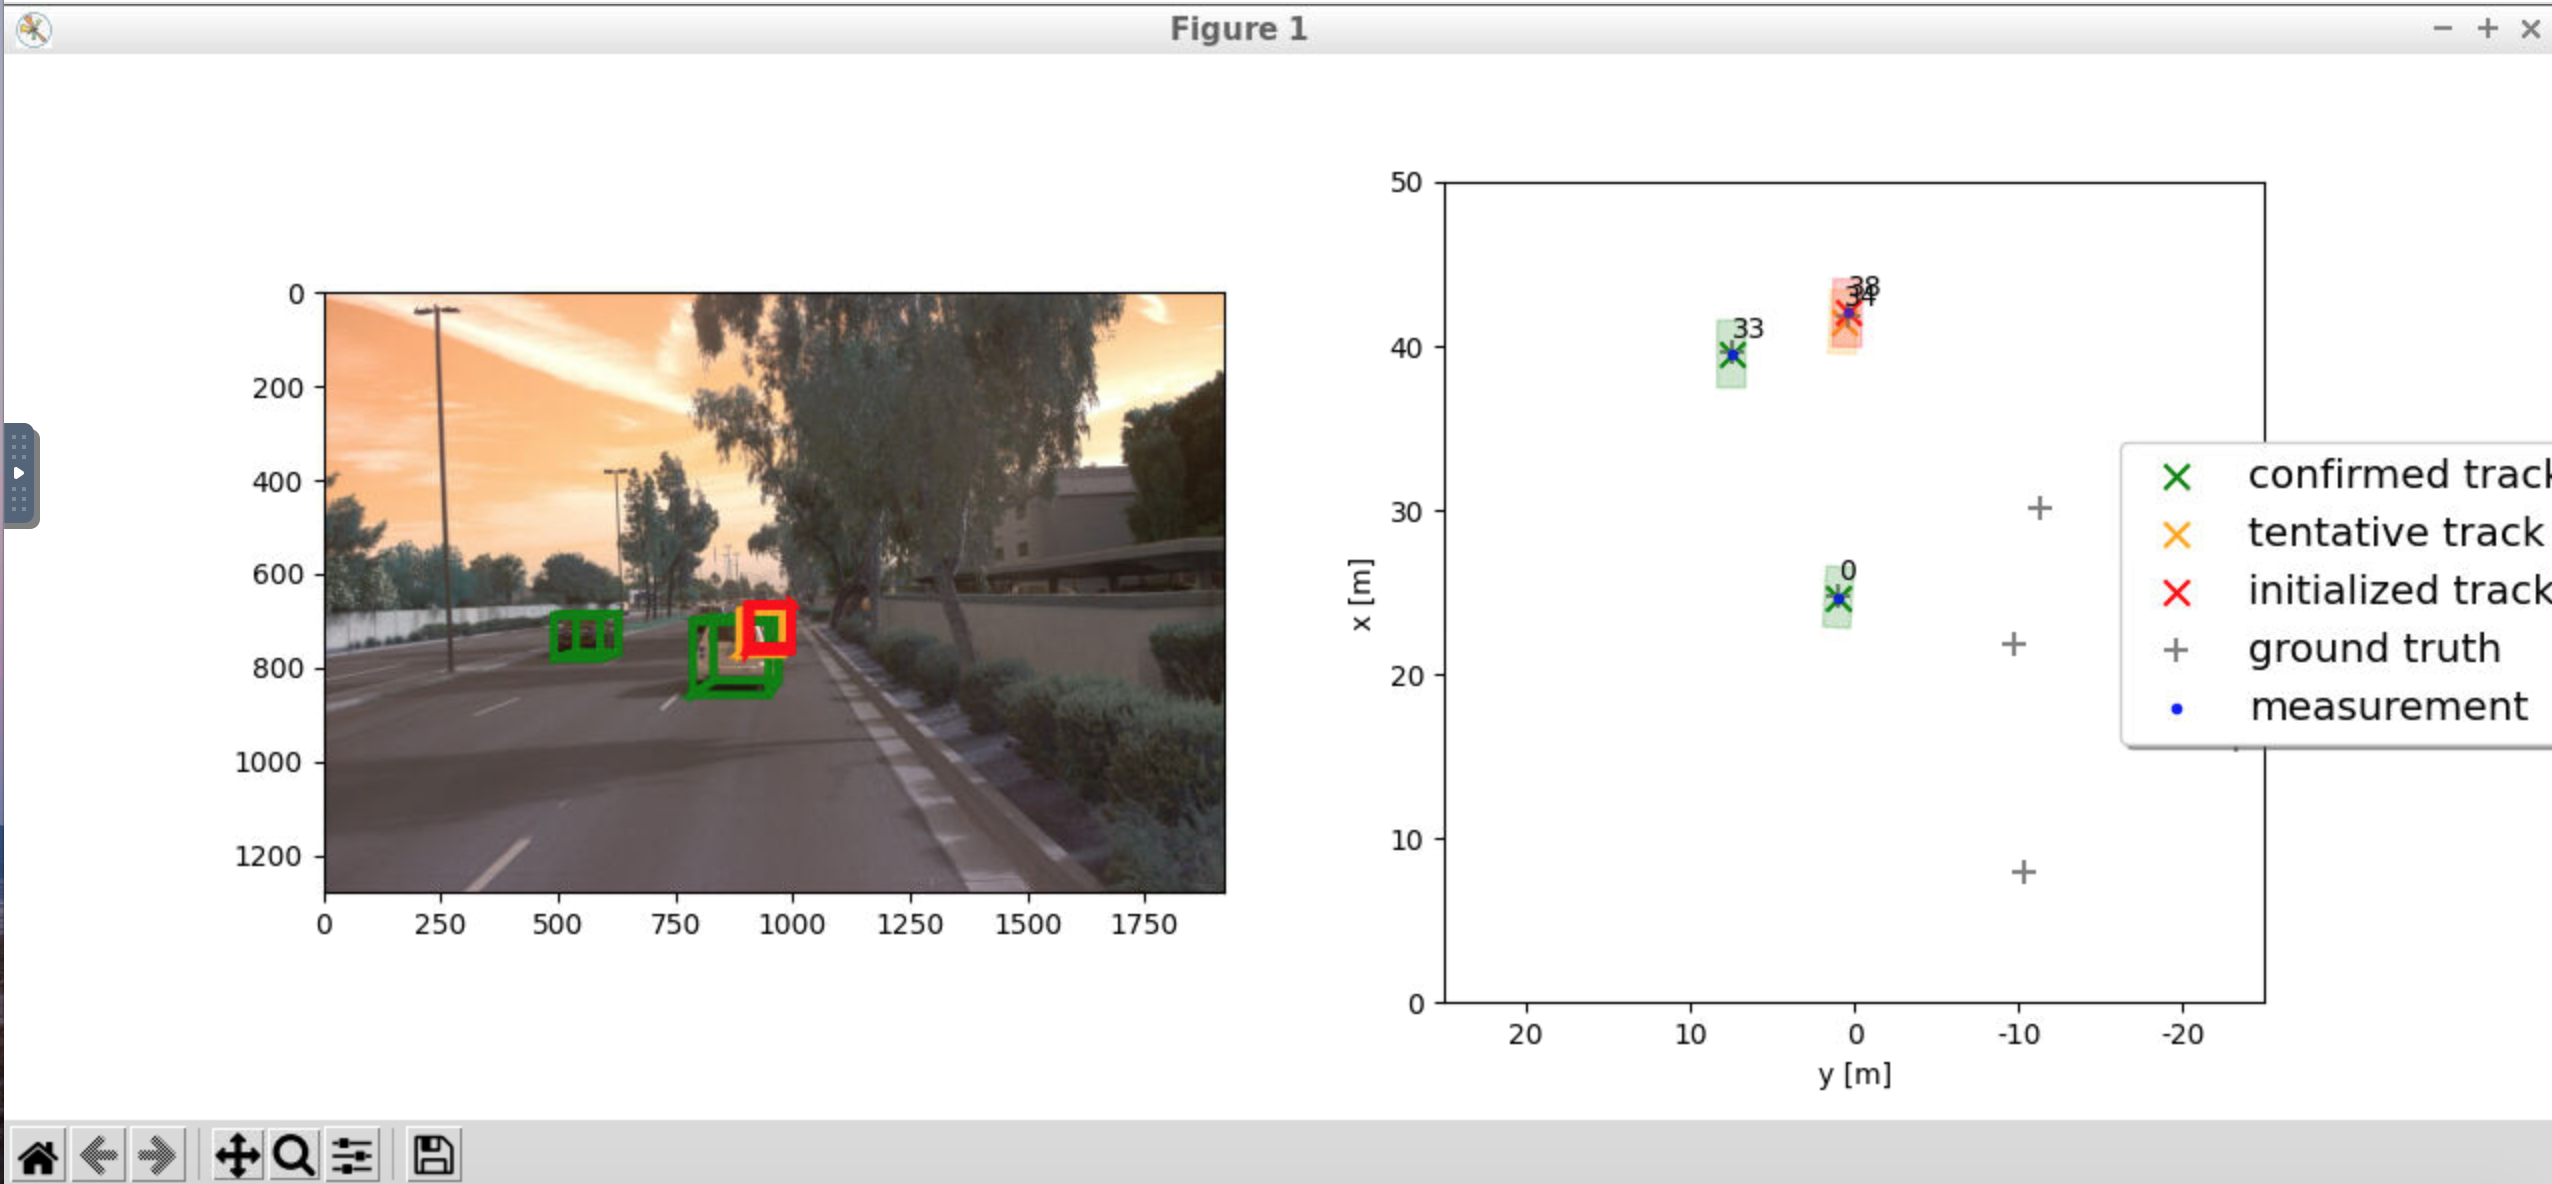
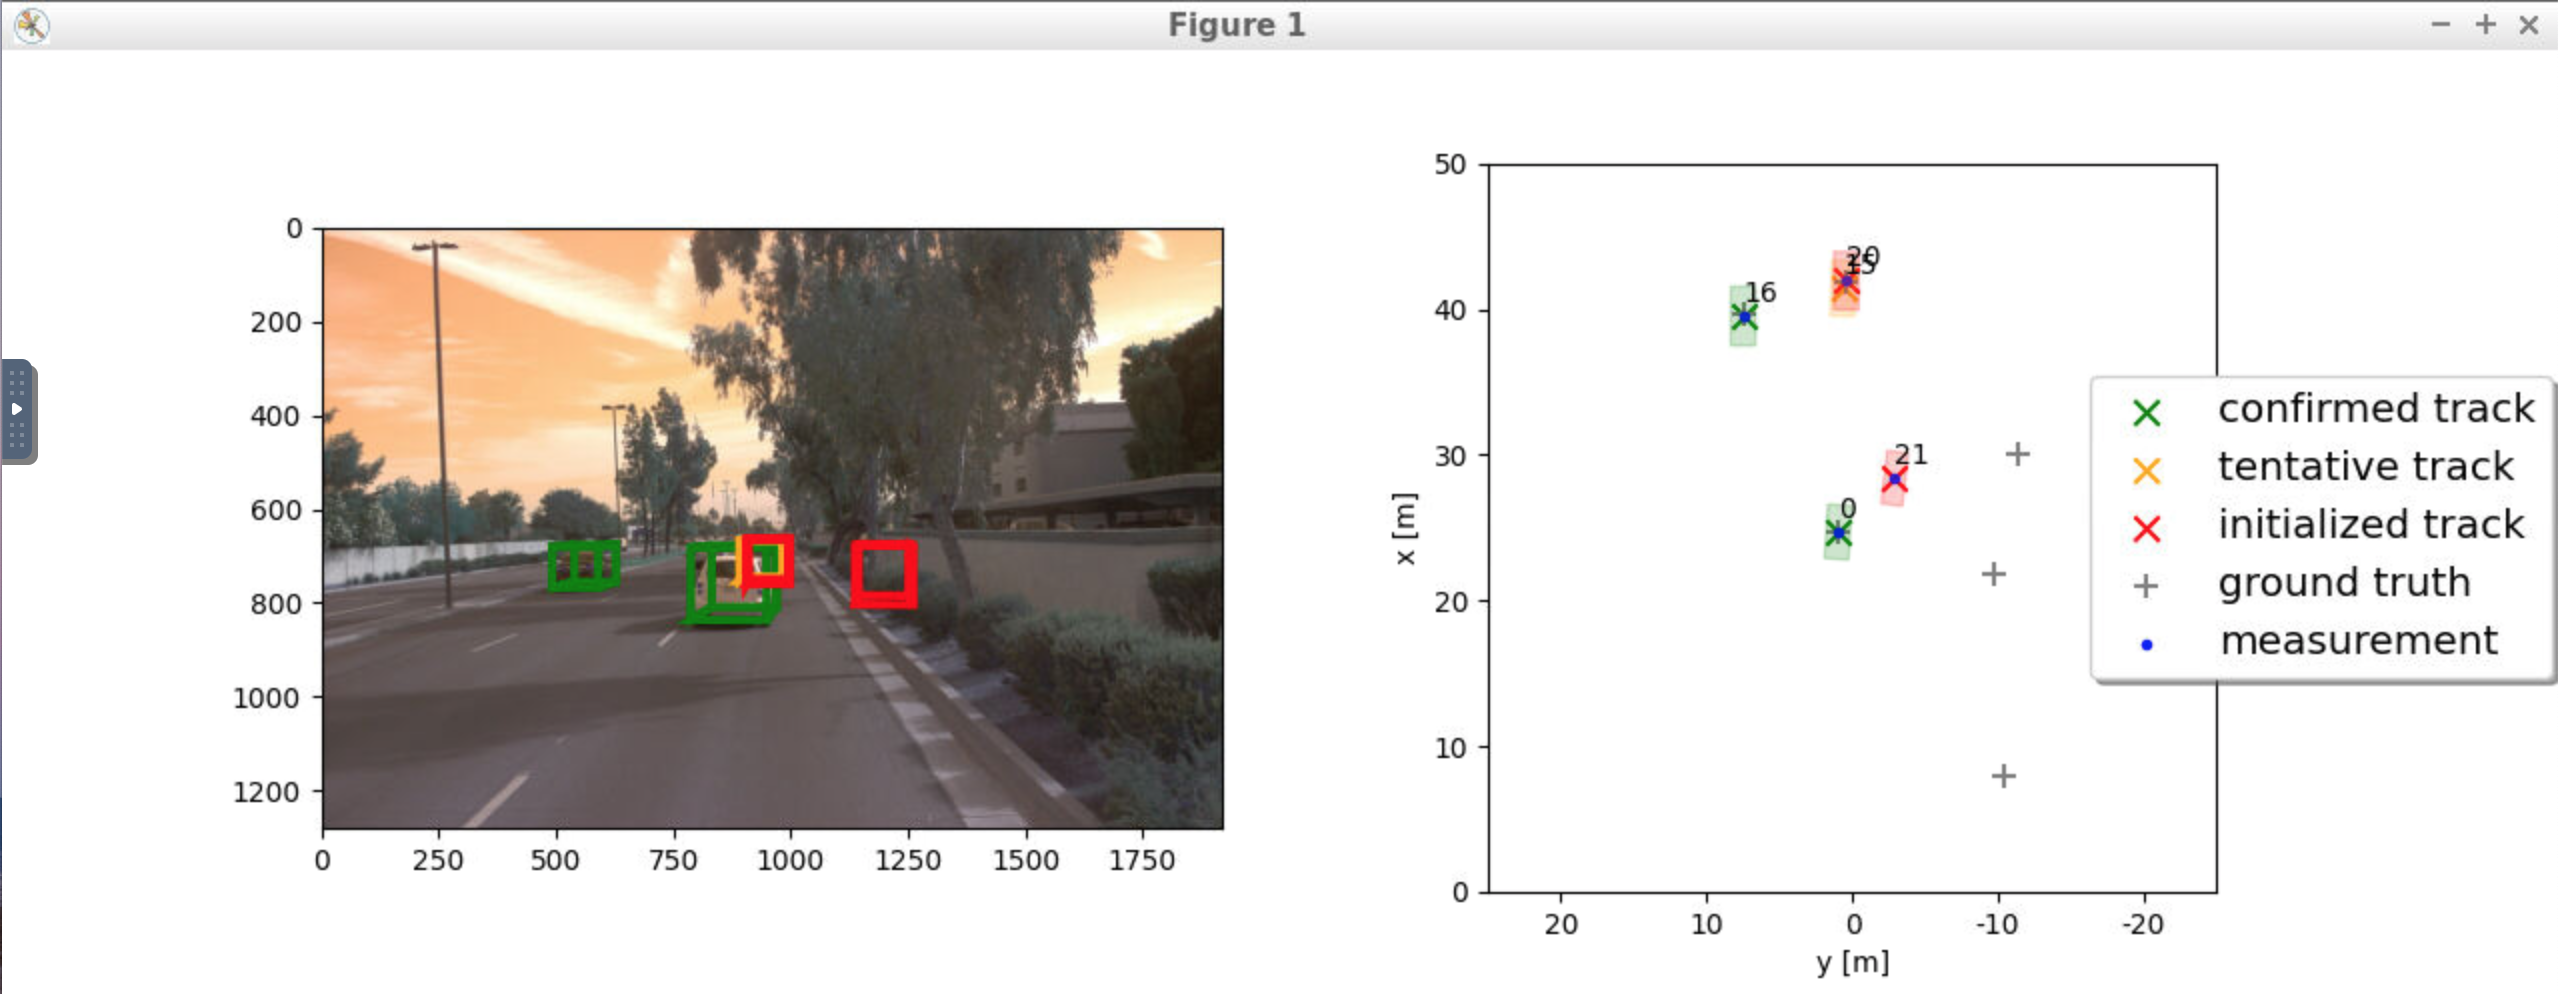
fix - changes as per feedback and updated step 3 output

diff --git a/loop_over_dataset.py b/loop_over_dataset.py
@@ -78,7 +78,7 @@ camera = None # init camera sensor object
 np.random.seed(10) # make random values predictable
 
 ## Selective execution and visualization
-exec_detection = ['bev_from_pcl', 'detect_objects'] #'bev_from_pcl', 'detect_objects', 'validate_object_labels', 'measure_detection_performance'] # options are 'bev_from_pcl', 'detect_objects', 'validate_object_labels', 'measure_detection_performance'; options not in the list will be loaded from file
+exec_detection = ['bev_from_pcl', 'detect_objects', 'validate_object_labels', 'measure_detection_performance'] #'bev_from_pcl', 'detect_objects', 'validate_object_labels', 'measure_detection_performance'] # options are 'bev_from_pcl', 'detect_objects', 'validate_object_labels', 'measure_detection_performance'; options not in the list will be loaded from file
 exec_tracking = ['perform_tracking'] # options are 'perform_tracking'
 exec_visualization = ['show_tracks'] # options are 'show_range_image', 'show_bev', 'show_pcl', 'show_labels_in_image', 'show_objects_and_labels_in_bev', 'show_objects_in_bev_labels_in_camera', 'show_tracks', 'show_detection_performance', 'make_tracking_movie'
 exec_list = make_exec_list(exec_detection, exec_tracking, exec_visualization)

diff --git a/student/association.py b/student/association.py
@@ -169,6 +169,8 @@ class Association:
         ############ 
     
     def associate_and_update(self, manager, meas_list, KF):
+        if len(meas_list) == 0:
+            return        
         # associate measurements and tracks
         self.associate(manager.track_list, meas_list, KF)
     
@@ -190,8 +192,9 @@ class Association:
             print('update track', track.id, 'with', meas_list[ind_meas].sensor.name, 'measurement', ind_meas)
             KF.update(track, meas_list[ind_meas])
             
-            # update score and track state 
-            manager.handle_updated_track(track)
+            # update score and track state
+            if meas_list[0].sensor.name == 'lidar':            
+                manager.handle_updated_track(track)
             
             # save updated track
             manager.track_list[ind_track] = track

diff --git a/student/filter.py b/student/filter.py
@@ -12,7 +12,7 @@
 
 # imports
 import numpy as np
-
+import logging
 # add project directory to python path to enable relative imports
 import os
 import sys
